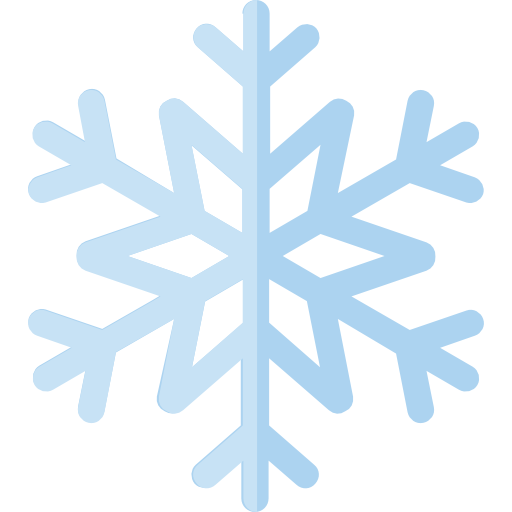
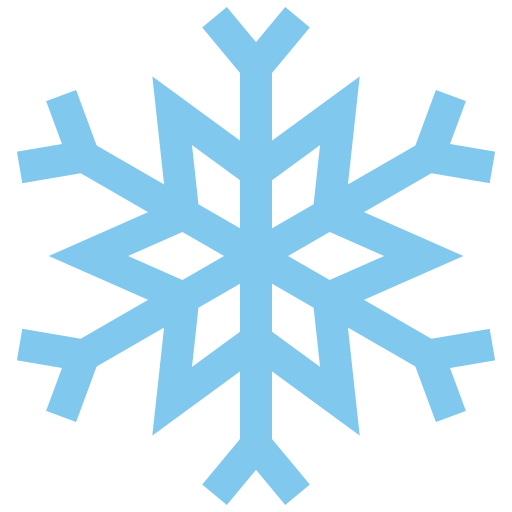
Updates

diff --git a/index.html b/index.html
@@ -1,1 +1,1 @@
-<!doctype html><html lang="en"><head><meta charset="utf-8"/><link rel="icon" href="/snowflake4.png"/><meta name="viewport" content="width=device-width,initial-scale=1"/><meta name="theme-color" content="#000000"/><meta name="description" content="Web site created using create-react-app"/><link rel="apple-touch-icon" href="/snowflake4.png"/><link rel="manifest" href="/manifest.json"/><title>Duplex Val Thorens</title><link href="/static/css/2.d80ffa58.chunk.css" rel="stylesheet"><link href="/static/css/main.ef14d2b1.chunk.css" rel="stylesheet"></head><body><noscript>You need to enable JavaScript to run this app.</noscript><div id="root"></div><script>!function(e){function r(r){for(var n,a,i=r[0],l=r[1],c=r[2],s=0,p=[];s<i.length;s++)a=i[s],Object.prototype.hasOwnProperty.call(o,a)&&o[a]&&p.push(o[a][0]),o[a]=0;for(n in l)Object.prototype.hasOwnProperty.call(l,n)&&(e[n]=l[n]);for(f&&f(r);p.length;)p.shift()();return u.push.apply(u,c||[]),t()}function t(){for(var e,r=0;r<u.length;r++){for(var t=u[r],n=!0,i=1;i<t.length;i++){var l=t[i];0!==o[l]&&(n=!1)}n&&(u.splice(r--,1),e=a(a.s=t[0]))}return e}var n={},o={1:0},u=[];function a(r){if(n[r])return n[r].exports;var t=n[r]={i:r,l:!1,exports:{}};return e[r].call(t.exports,t,t.exports,a),t.l=!0,t.exports}a.e=function(e){var r=[],t=o[e];if(0!==t)if(t)r.push(t[2]);else{var n=new Promise((function(r,n){t=o[e]=[r,n]}));r.push(t[2]=n);var u,i=document.createElement("script");i.charset="utf-8",i.timeout=120,a.nc&&i.setAttribute("nonce",a.nc),i.src=function(e){return a.p+"static/js/"+({}[e]||e)+"."+{3:"f203f2bf"}[e]+".chunk.js"}(e);var l=new Error;u=function(r){i.onerror=i.onload=null,clearTimeout(c);var t=o[e];if(0!==t){if(t){var n=r&&("load"===r.type?"missing":r.type),u=r&&r.target&&r.target.src;l.message="Loading chunk "+e+" failed.\n("+n+": "+u+")",l.name="ChunkLoadError",l.type=n,l.request=u,t[1](l)}o[e]=void 0}};var c=setTimeout((function(){u({type:"timeout",target:i})}),12e4);i.onerror=i.onload=u,document.head.appendChild(i)}return Promise.all(r)},a.m=e,a.c=n,a.d=function(e,r,t){a.o(e,r)||Object.defineProperty(e,r,{enumerable:!0,get:t})},a.r=function(e){"undefined"!=typeof Symbol&&Symbol.toStringTag&&Object.defineProperty(e,Symbol.toStringTag,{value:"Module"}),Object.defineProperty(e,"__esModule",{value:!0})},a.t=function(e,r){if(1&r&&(e=a(e)),8&r)return e;if(4&r&&"object"==typeof e&&e&&e.__esModule)return e;var t=Object.create(null);if(a.r(t),Object.defineProperty(t,"default",{enumerable:!0,value:e}),2&r&&"string"!=typeof e)for(var n in e)a.d(t,n,function(r){return e[r]}.bind(null,n));return t},a.n=function(e){var r=e&&e.__esModule?function(){return e.default}:function(){return e};return a.d(r,"a",r),r},a.o=function(e,r){return Object.prototype.hasOwnProperty.call(e,r)},a.p="/",a.oe=function(e){throw console.error(e),e};var i=this["webpackJsonpduplex-val-thorens"]=this["webpackJsonpduplex-val-thorens"]||[],l=i.push.bind(i);i.push=r,i=i.slice();for(var c=0;c<i.length;c++)r(i[c]);var f=l;t()}([])</script><script src="/static/js/2.4c13cc83.chunk.js"></script><script src="/static/js/main.e73eaf33.chunk.js"></script></body></html>
+<!doctype html><html lang="en"><head><meta charset="utf-8"/><link rel="icon" href="/snowflake.png"/><meta name="viewport" content="width=device-width,initial-scale=1"/><meta name="theme-color" content="#000000"/><meta name="description" content="Web site created using create-react-app"/><link rel="apple-touch-icon" href="/snowflake.png"/><link rel="manifest" href="/manifest.json"/><title>Duplex Val Thorens</title><link href="/static/css/2.d80ffa58.chunk.css" rel="stylesheet"><link href="/static/css/main.ef14d2b1.chunk.css" rel="stylesheet"></head><body><noscript>You need to enable JavaScript to run this app.</noscript><div id="root"></div><script>!function(e){function r(r){for(var n,a,i=r[0],l=r[1],c=r[2],s=0,p=[];s<i.length;s++)a=i[s],Object.prototype.hasOwnProperty.call(o,a)&&o[a]&&p.push(o[a][0]),o[a]=0;for(n in l)Object.prototype.hasOwnProperty.call(l,n)&&(e[n]=l[n]);for(f&&f(r);p.length;)p.shift()();return u.push.apply(u,c||[]),t()}function t(){for(var e,r=0;r<u.length;r++){for(var t=u[r],n=!0,i=1;i<t.length;i++){var l=t[i];0!==o[l]&&(n=!1)}n&&(u.splice(r--,1),e=a(a.s=t[0]))}return e}var n={},o={1:0},u=[];function a(r){if(n[r])return n[r].exports;var t=n[r]={i:r,l:!1,exports:{}};return e[r].call(t.exports,t,t.exports,a),t.l=!0,t.exports}a.e=function(e){var r=[],t=o[e];if(0!==t)if(t)r.push(t[2]);else{var n=new Promise((function(r,n){t=o[e]=[r,n]}));r.push(t[2]=n);var u,i=document.createElement("script");i.charset="utf-8",i.timeout=120,a.nc&&i.setAttribute("nonce",a.nc),i.src=function(e){return a.p+"static/js/"+({}[e]||e)+"."+{3:"f203f2bf"}[e]+".chunk.js"}(e);var l=new Error;u=function(r){i.onerror=i.onload=null,clearTimeout(c);var t=o[e];if(0!==t){if(t){var n=r&&("load"===r.type?"missing":r.type),u=r&&r.target&&r.target.src;l.message="Loading chunk "+e+" failed.\n("+n+": "+u+")",l.name="ChunkLoadError",l.type=n,l.request=u,t[1](l)}o[e]=void 0}};var c=setTimeout((function(){u({type:"timeout",target:i})}),12e4);i.onerror=i.onload=u,document.head.appendChild(i)}return Promise.all(r)},a.m=e,a.c=n,a.d=function(e,r,t){a.o(e,r)||Object.defineProperty(e,r,{enumerable:!0,get:t})},a.r=function(e){"undefined"!=typeof Symbol&&Symbol.toStringTag&&Object.defineProperty(e,Symbol.toStringTag,{value:"Module"}),Object.defineProperty(e,"__esModule",{value:!0})},a.t=function(e,r){if(1&r&&(e=a(e)),8&r)return e;if(4&r&&"object"==typeof e&&e&&e.__esModule)return e;var t=Object.create(null);if(a.r(t),Object.defineProperty(t,"default",{enumerable:!0,value:e}),2&r&&"string"!=typeof e)for(var n in e)a.d(t,n,function(r){return e[r]}.bind(null,n));return t},a.n=function(e){var r=e&&e.__esModule?function(){return e.default}:function(){return e};return a.d(r,"a",r),r},a.o=function(e,r){return Object.prototype.hasOwnProperty.call(e,r)},a.p="/",a.oe=function(e){throw console.error(e),e};var i=this["webpackJsonpduplex-val-thorens"]=this["webpackJsonpduplex-val-thorens"]||[],l=i.push.bind(i);i.push=r,i=i.slice();for(var c=0;c<i.length;c++)r(i[c]);var f=l;t()}([])</script><script src="/static/js/2.4c13cc83.chunk.js"></script><script src="/static/js/main.e73eaf33.chunk.js"></script></body></html>
